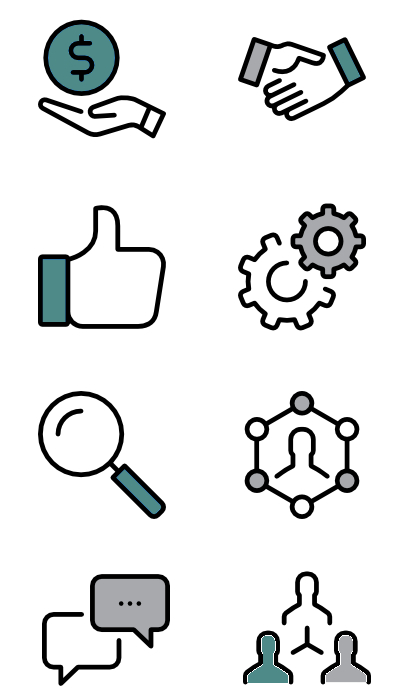
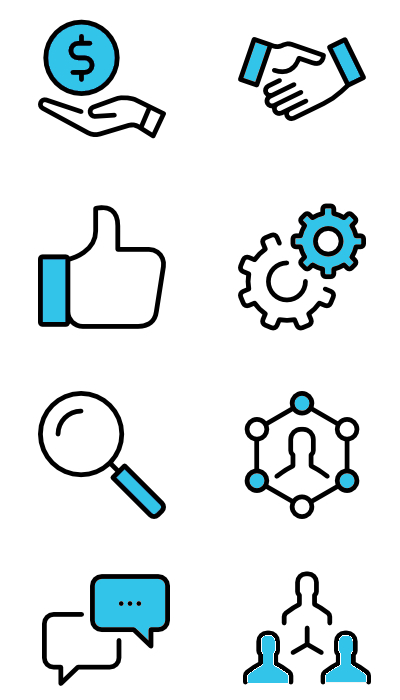
Color scheme changes to homepage and services images changed

diff --git a/style.css b/style.css
@@ -196,7 +196,7 @@ header .light-logo {
 }
 
 .menu-links ul li:hover > a {
-    color: #33495f;
+    color: #32c4e9;
 }
 
 
@@ -248,7 +248,7 @@ header .light-logo {
 }
 
 .jumbotron-content span {
-    color: #33495f;
+    color: #32c4e9;
 }
 
 .jumbotron-content ul {
@@ -323,7 +323,7 @@ header .light-logo {
 
 .btn-large.btn-jumbo:hover {
     background-color: #fff;
-    color: #33495f;
+    color: #32c4e9;
 }
 
 
@@ -509,30 +509,30 @@ header .light-logo {
 
 .choose-us-header::before {
     border-right: 30px solid transparent;
-    border-left: 100% solid #fff;
+    border-left: 100% solid #f7f7f7;
     content: '';
     position: absolute;
     right: 50%;
     bottom: 0;
     width: 50%;
     z-index: 100;
-    border-bottom: 30px solid #fff;
+    border-bottom: 30px solid #f7f7f7;
 }
 
 .choose-us-header::after {
     left: 50%;
     border-left: 30px solid transparent;
-    border-right: 100% solid #fff;
+    border-right: 100% solid #f7f7f7;
     content: '';
     position: absolute;
     bottom: 0;
     width: 50%;
     z-index: 100;
-    border-bottom: 30px solid #fff;
+    border-bottom: 30px solid #f7f7f7;
 }
 
 .choose-us {
-    background-color: #fff;
+    background-color: #f7f7f7;
 }
 
 .choose-us .why-choose {
@@ -562,7 +562,7 @@ header .light-logo {
 }
 
 .why-choose a:hover h5 {
-    color: #6fa9a7;
+    color: #32c4e9;
 }
 
 .why-choose p {
@@ -597,9 +597,9 @@ header .light-logo {
 }
 
 .why-choose .simple-icon i {
-    color: #6fa9a7;
+    color: #32c4e9;
     font-size: 20px;
-    border: 2px solid #6fa9a7;
+    border: 2px solid #232929;
     border-radius: 50%;
     padding: 15px;
 }
@@ -610,7 +610,7 @@ header .light-logo {
 }
 
 .choose-us-header {
-    background-image: url(http://i64.tinypic.com/2ezh24m.png);
+    background-image: url(http://i63.tinypic.com/v7xtt3.png);
     height: 45vh;
 }
 

diff --git a/index.html b/index.html
@@ -210,7 +210,7 @@
                 <div class="services-btn">
                 <div class="row">
                     <div class="col-xs-12">
-                        <a href="#" class="btn_1">View All Services</a>
+                        <a href="velabri_services.html" class="btn_1">View All Services<i class="fa fa-arrow-right" style="margin-left:10px; font-size:20px;"></i></a>
                     </div>
                 </div>
             </div>
@@ -265,7 +265,7 @@
                 <div class="col-md-4 hidden-xs hidden-sm text-center">
                     <div class="why-choose-image">
                         <div class="why-choose-image">
-                            <a href="#"><img src="http://i66.tinypic.com/r2jlts.png" height="460px" width="290px" style="margin-top:40px;"/></a>
+                            <a href="#"><img src="http://i64.tinypic.com/2utt8gw.png" height="460px" width="290px" style="margin-top:40px;"/></a>
                         </div>
                     </div>
                 </div>
